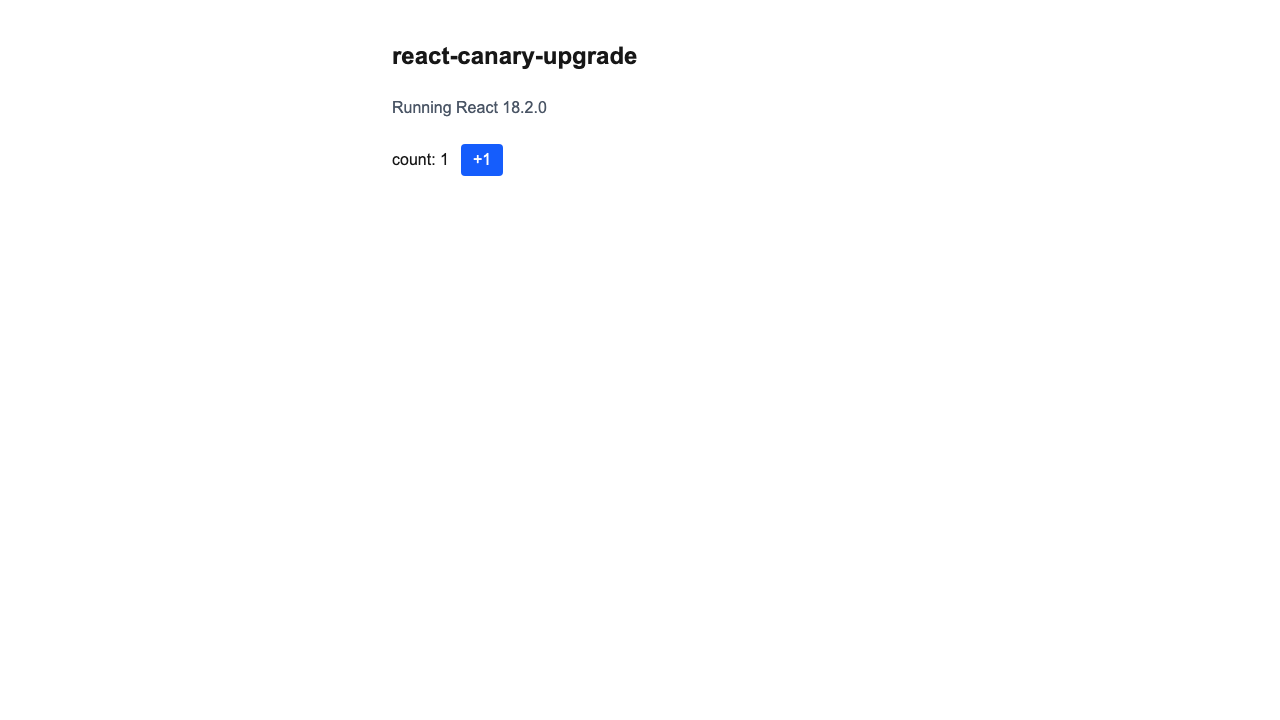
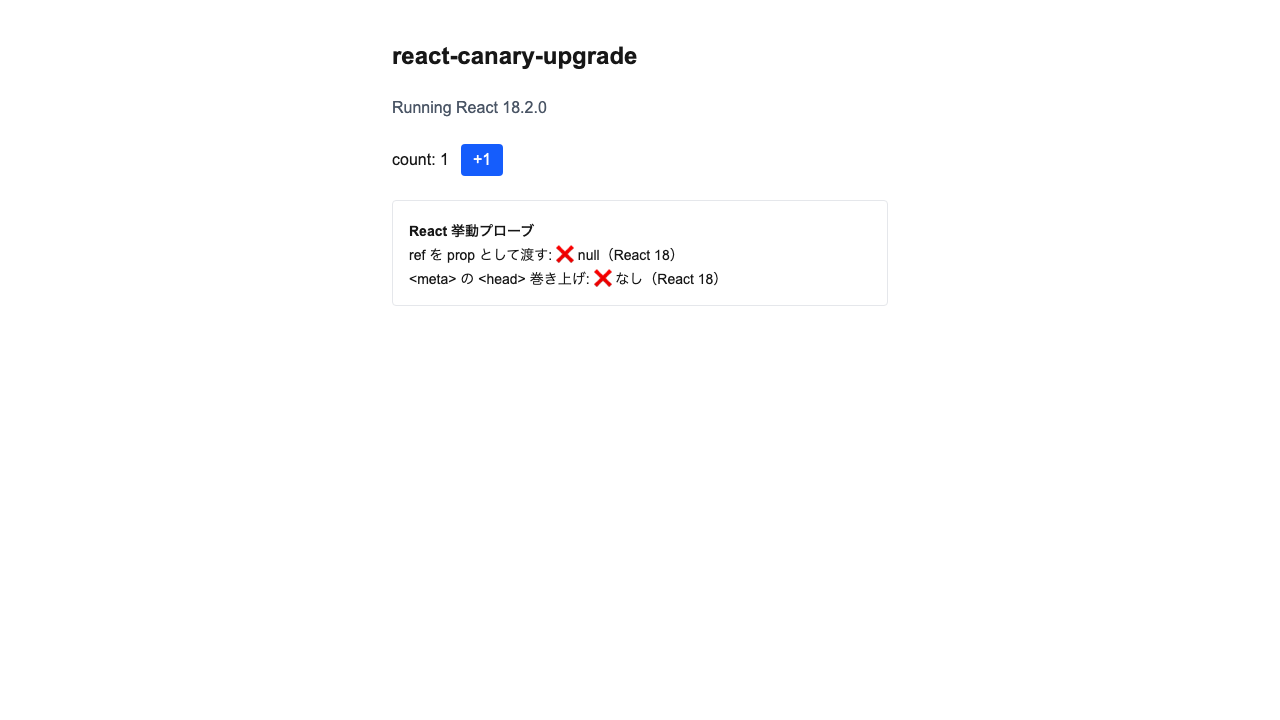
feat: add BehaviorProbe proving React 18 vs 19 by runtime behavior
ref-as-prop（19 で関数 component に ref を prop 渡し可）と <meta> の head 巻き上げ
（19 で自動）の breaking change を実行時判定して画面表示。同一コードが control=18 で
❌❌ / treatment=19 で ✅✅ になる。e2e にプローブ検証を追加、README に挙動表と SS。

Changed region(s): [[0.3125, 0.3056, 0.5625, 0.3972]]

diff --git a/src/components/BehaviorProbe.tsx b/src/components/BehaviorProbe.tsx
@@ -1,0 +1,52 @@
+import { createElement, type Ref, useEffect, useRef, useState } from "react";
+
+// React 19 は ref を通常の prop として関数コンポーネントに渡せる（forwardRef 不要）。
+// React 18 では ref は特別扱いされ関数コンポーネントには渡らない（null + 警告）。
+function RefAsProp(props: { ref?: Ref<HTMLSpanElement> }) {
+  return <span ref={props.ref} />;
+}
+
+function label(v: boolean | null, yes: string, no: string): string {
+  if (v === null) return "判定中…";
+  return v ? yes : no;
+}
+
+/**
+ * 実行中の React が 18 か 19 かを「挙動」で炙り出すプローブ。
+ * 同一コードが React のバージョン差でだけ結果を変える。
+ */
+export function BehaviorProbe() {
+  const ref = useRef<HTMLSpanElement>(null);
+  const [refAsProp, setRefAsProp] = useState<boolean | null>(null);
+  const [metaHoisted, setMetaHoisted] = useState<boolean | null>(null);
+
+  useEffect(() => {
+    // React 19: ref が関数コンポーネントに渡り current が埋まる / React 18: null のまま
+    setRefAsProp(ref.current !== null);
+    // React 19: コンポーネント内の <meta> が <head> へ巻き上げられる / React 18: body に残る
+    setMetaHoisted(
+      document.head.querySelector('meta[name="rcu-probe"]') !== null,
+    );
+  }, []);
+
+  return (
+    <section
+      data-testid="behavior-probe"
+      className="flex flex-col gap-1 rounded border border-gray-200 p-4 text-sm"
+    >
+      {/* ref-as-prop プローブ（ref を特別扱いさせるため createElement で渡す） */}
+      {createElement(RefAsProp, { ref } as { ref?: Ref<HTMLSpanElement> })}
+      {/* head 巻き上げプローブ */}
+      <meta name="rcu-probe" content="probe" />
+      <h2 className="font-semibold">React 挙動プローブ</h2>
+      <p data-testid="probe-ref">
+        ref を prop として渡す:{" "}
+        {label(refAsProp, "✅ 動作（React 19）", "❌ null（React 18）")}
+      </p>
+      <p data-testid="probe-meta">
+        {"<meta> の <head> 巻き上げ: "}
+        {label(metaHoisted, "✅ あり（React 19）", "❌ なし（React 18）")}
+      </p>
+    </section>
+  );
+}

diff --git a/e2e/visual.spec.ts b/e2e/visual.spec.ts
@@ -13,6 +13,17 @@ test(`client runs React ${expectedMajor} [${variant}]`, async ({ page }) => {
   );
 });
 
+// React 18→19 の breaking change（ref を prop で渡す / <meta> の head 巻き上げ）が
+// 挙動として現れることを検証する。同一コードがバージョン差でだけ結果を変える。
+test(`react behavior reflects ${expectedMajor} [${variant}]`, async ({
+  page,
+}) => {
+  await page.goto("/");
+  const marker = `React ${expectedMajor}`;
+  await expect(page.getByTestId("probe-ref")).toContainText(marker);
+  await expect(page.getByTestId("probe-meta")).toContainText(marker);
+});
+
 // 同一コードが両 React バージョンで機能することを実ブラウザで検証する。
 test(`counter increments [${variant}]`, async ({ page }) => {
   await page.goto("/");
@@ -26,7 +37,10 @@ test(`home page renders consistently [${variant}]`, async ({ page }) => {
   await page.goto("/");
   await expect(page.getByRole("button", { name: "increment" })).toBeVisible();
   await expect(page).toHaveScreenshot("home.png", {
-    mask: [page.getByTestId("react-version")],
+    mask: [
+      page.getByTestId("react-version"),
+      page.getByTestId("behavior-probe"),
+    ],
     maxDiffPixelRatio: 0.01,
   });
 });

diff --git a/src/pages/index.tsx b/src/pages/index.tsx
@@ -1,4 +1,5 @@
 import { version } from "react";
+import { BehaviorProbe } from "@/components/BehaviorProbe";
 import { Counter } from "@/components/Counter";
 
 export default function Home() {
@@ -9,6 +10,7 @@ export default function Home() {
         Running React {version}
       </p>
       <Counter />
+      <BehaviorProbe />
     </main>
   );
 }

diff --git a/README.md b/README.md
@@ -16,7 +16,16 @@ Airbnb の記事 [How Airbnb Smoothly Upgrades React](https://medium.com/airbnb-
 | ![control React 18](docs/home-control.png) | ![treatment React 19](docs/home-treatment.png) |
 | Running React **18.2.0** | Running React **19.2.0** |
 
-Playwright e2e（`e2e/visual.spec.ts`）が、control を baseline に treatment のレイアウト一致・各バージョンでの Counter 動作・クライアント React メジャーを検証する。
+### 挙動による証明（バージョン文字列だけに頼らない）
+
+`BehaviorProbe` が React 18→19 の breaking change を実行時に判定して画面に表示する。同一コードがバージョン差でだけ結果を変えるため、18/19 が本当に動いていることを挙動で示せる:
+
+| プローブ | React 18 (control) | React 19 (treatment) |
+| --- | --- | --- |
+| `ref` を関数コンポーネントに prop として渡す | ❌ null（forwardRef 必須） | ✅ 動作（ref が通常の prop に） |
+| コンポーネント内の `<meta>` の `<head>` 巻き上げ | ❌ body に残る | ✅ head へ自動巻き上げ |
+
+Playwright e2e（`e2e/visual.spec.ts`）が、control を baseline に treatment のレイアウト一致・Counter 動作・クライアント React メジャー・上記プローブ挙動を検証する。
 
 ## Next.js での注意点（重要な学び）
 
